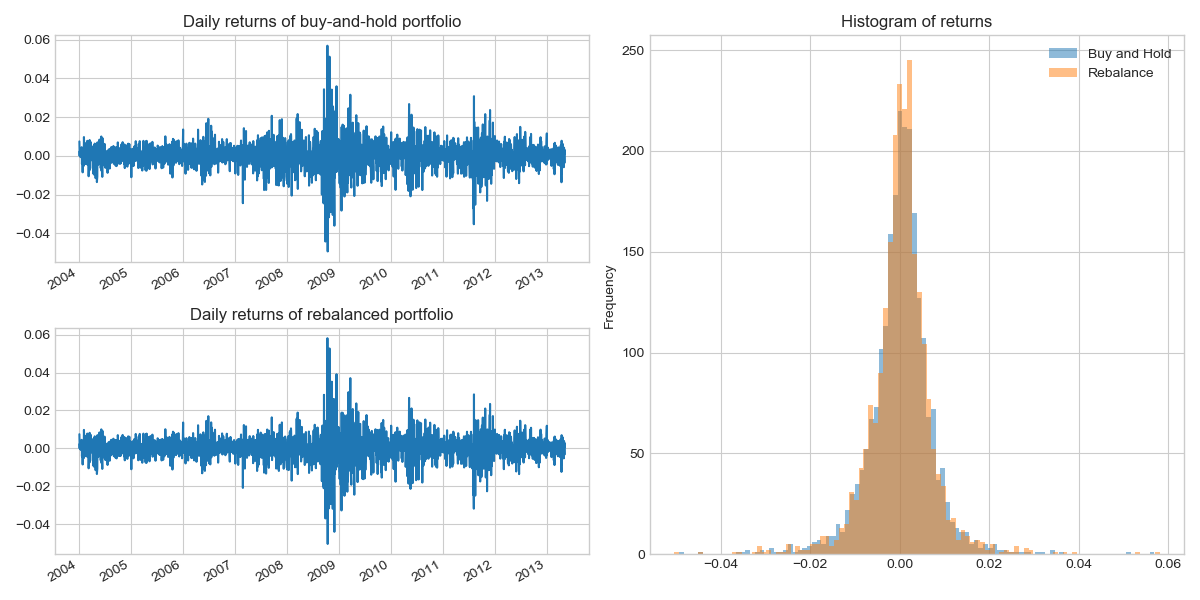
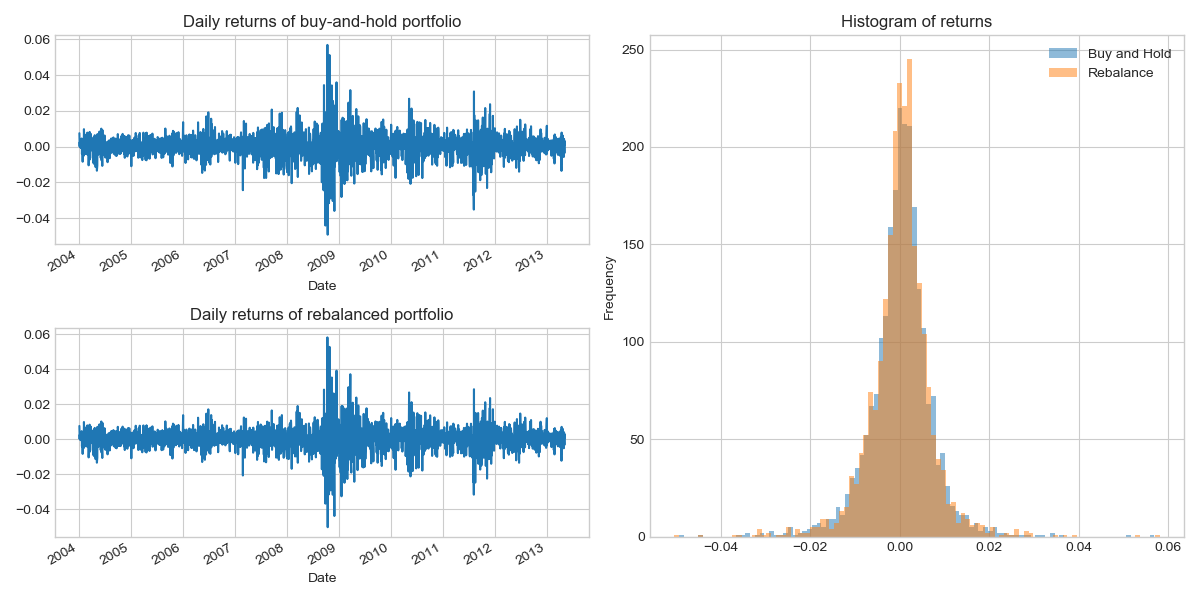
Began merging dataframes in order to reduce number.

diff --git a/BCS.py b/BCS.py
@@ -4,7 +4,7 @@ import matplotlib.colors as colors
 import pandas as pd
 import seaborn as sns
 
-betterment_colors = [
+betterment_palette = [
     '#79CCFF',  # SHY
     '#ADE7FF',  # TIP
     '#B5FFCB',  # VTI
@@ -56,7 +56,7 @@ def within_tolerance(target, current, drift):
 
 if __name__ == '__main__':
     sns.set_style('whitegrid')
-    cm.register_cmap('betterment', cmap=colors.ListedColormap(betterment_colors))
+    cm.register_cmap('betterment', cmap=colors.ListedColormap(betterment_palette))
 
     STARTING_CASH = 100000
     MAX_DRIFT = 0.05
@@ -70,10 +70,14 @@ if __name__ == '__main__':
     )
     tickers = returns_df.columns
     dates = returns_df.index
+    returns_df.index.name = 'Date'
+    returns_df.columns = pd.MultiIndex.from_tuples(list(zip(['daily'] * 8, tickers)))
     target_weights = pd.Series(
         data=[0.25, 0.25, 0.125, 0.125, 0.04, 0.035, 0.125, 0.05],
         index=tickers
     )
+
+    returns_df[zip(['cumulative']*8, tickers)] = (returns_df['daily'] + 1).cumprod()
 
     # NON REBALANCED PORTFOLIO
     cumulative_returns_df = (returns_df + 1).cumprod()
@@ -148,7 +152,7 @@ if __name__ == '__main__':
         kind='area',
         legend=False,
         ylim=(0, 1),
-        colormap=cm.get_cmap('betterment')
+        colormap=cm.get_cmap('betterment', 8)
     )
     rebalance_df_alloc.plot(
         ax=axes_alloc[1],
@@ -171,7 +175,7 @@ if __name__ == '__main__':
         ax=axes_values,
         figsize=(12, 6),
         title='Portfolio values',
-        label='Value of buy-and-hold portfolio'
+        label='Value of buy-and-hold portfolio',
     )
     rebalance_df.sum(axis=1).plot(
         ax=axes_values,
